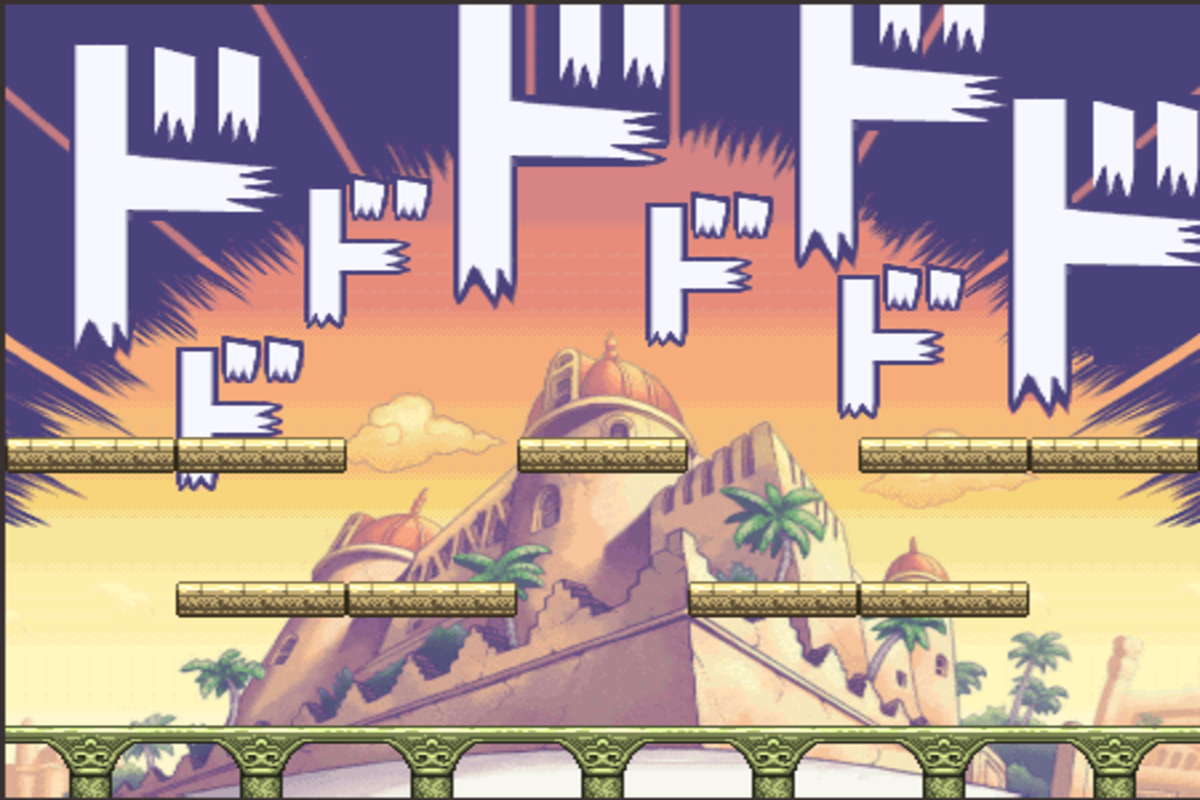
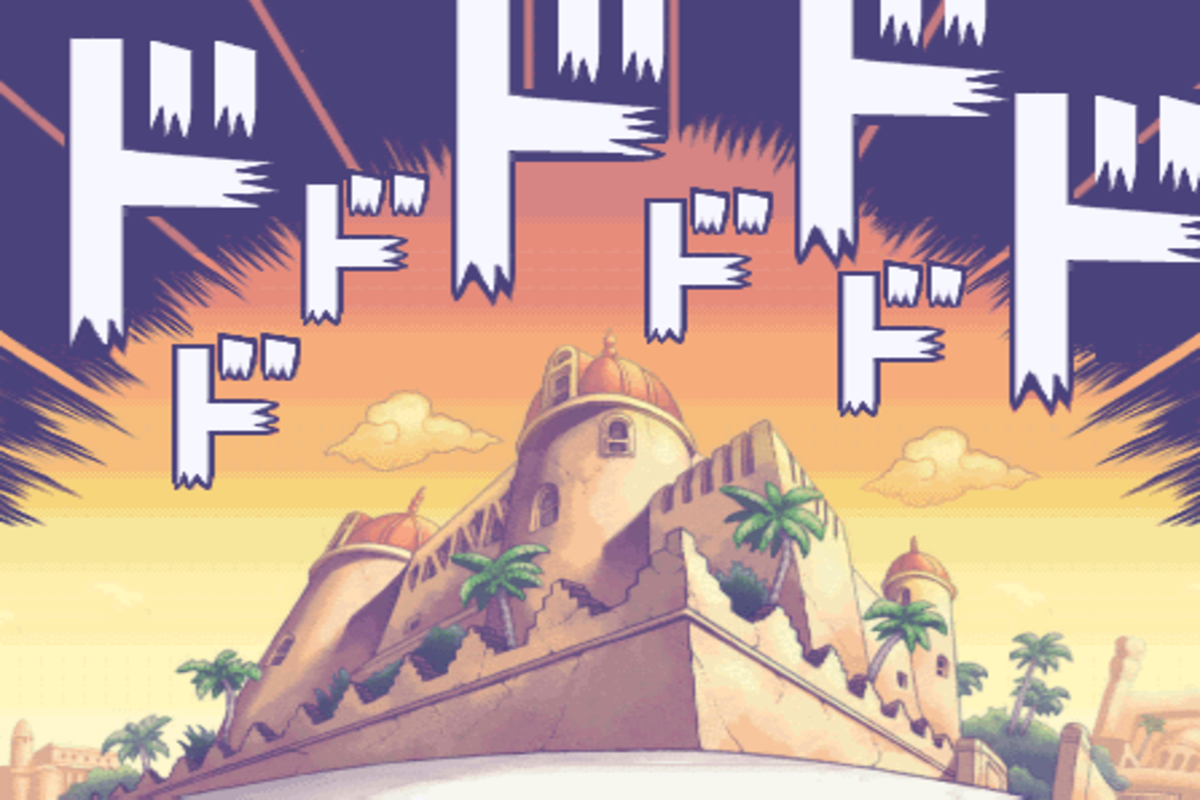
Modify Canvas Size

diff --git a/Naruto/naruto.py b/Naruto/naruto.py
@@ -16,7 +16,7 @@ class Naruto:
     self.hit_x, self.hit_y = 0, 0
     self.font = load_font('./res/font/D2Coding.TTF', 20)
     self.hp = 400
-    self.hp_bar = Hp(self.x-20, self.hp)
+    self.hp_bar = Hp(self.x-115, self.hp)
     self.damage = 0.1
     self.action = 1
     self.face_dir = -1
@@ -42,6 +42,7 @@ class Naruto:
     self.last_att2_time = get_time()
     self.last_damage_time = 0.0  # 데미지를 받은 마지막 시간을 기록할 변수 추가
     self.damage_duration = 0.3  # 데미지 상태 지속 시간 (초)
+    self.last_time = get_time()
     self.build_behavior_tree()
 
   def update(self):
@@ -61,6 +62,7 @@ class Naruto:
       self.frame = (self.frame + FRAMES_PER_ACTION_IDLE * ACTION_PER_TIME * game_framework.frame_time) % 8
 
     if self.state == 'TakeDamage':
+      self.hit_sound.play()
       self.frame = (self.frame + FRAMES_PER_ACTION_IDLE * ACTION_PER_TIME * game_framework.frame_time) % 4
       if current_time - self.last_damage_time > self.damage_duration:
         # 일정 시간이 지나면 Idle 상태로 전환
@@ -174,7 +176,6 @@ class Naruto:
     if group == 'luffy:naruto' and other.attack_flag == True:
       self.attack_flag = False
       self.hp -= other.damage
-      self.hit_sound.play()
       if other.face_dir == 1:
         self.face_dir = -1
       else:

diff --git a/hp.py b/hp.py
@@ -9,16 +9,14 @@ class Hp:
     self.bar_fg = load_image('./res/ui/hp_bar_fg.png')
     self.bar_bg.opacify(0.5)
     self.bar_fg.opacify(1.0)
-    self.max_hp = 100
+    self.max_hp = 400
     self.current_hp = obj_hp
 
 
-  def draw(self, hp = 400):
-    # self.bar_bg.clip_composite_draw(0, 0, 195, 17, 0, h_flag, self.x, self.y, 400, 40)
-    # 함수 만들어야할 듯
-    self.bar_bg.clip_draw_to_origin(0, 0, 100, 10, self.x, self.y, 400, 60)
+  def draw(self, hp = 400, left_flag = False):
+    self.bar_bg.clip_draw_to_origin(0, 0, 100, 10, self.x, self.y, 400, 40)
+    self.bar_fg.clip_draw_to_origin(0, 0, 100, 10, self.x, self.y, hp, 40)
 
-    self.bar_fg.clip_draw_to_origin(0, 0, 100, 10, self.x, self.y, hp, 60)
   def update(self, new_hp):
     self.current_hp = new_hp
     pass

diff --git a/Luffy/luffy.py b/Luffy/luffy.py
@@ -14,7 +14,7 @@ class Luffy:
     self.hit_x, self.hit_y = 0, 0
     self.font = load_font('./res/font/D2Coding.TTF', 20)
     self.hp = 400
-    self.hp_bar = Hp(self.x-380, self.hp)
+    self.hp_bar = Hp(self.x-387, self.hp)
     self.damage = 0.3
     self.action = 1
     self.face_dir = 1
@@ -100,7 +100,7 @@ class Luffy:
   def draw(self):
     self.state_machine.draw()
     self.font.draw(self.x-31, self.y+50, f'Player', (0,0,255))
-    self.hp_bar.draw(self.hp)
+    self.hp_bar.draw(self.hp, left_flag = True)
     # Collision box
     # draw_rectangle(*self.get_bb())
     # for bb in self.get_bb():

diff --git a/Map/map.py b/Map/map.py
@@ -14,8 +14,8 @@ class Map:
 
     def draw(self):
         self.image.draw(600, 400)
-        self.luffy_coma.draw(462, 750, 80, 80)
-        self.naruto_coma.draw(638, 750, 80, 80)
+        self.luffy_coma.draw(get_canvas_width()/2-45, get_canvas_height()-60, 80, 80)
+        self.naruto_coma.draw(get_canvas_width()/2+45, get_canvas_height()-60, 80, 80)
         # self.image.draw(1200, 30)
 
     def get_bb(self):

diff --git a/play_mode.py b/play_mode.py
@@ -13,7 +13,7 @@ def resume():
   pass
 
 def init():
-  open_canvas(1100, 800)
+  open_canvas(1000, 700) # 1000 700
   global luffy, naruto
 
   map = Map()
